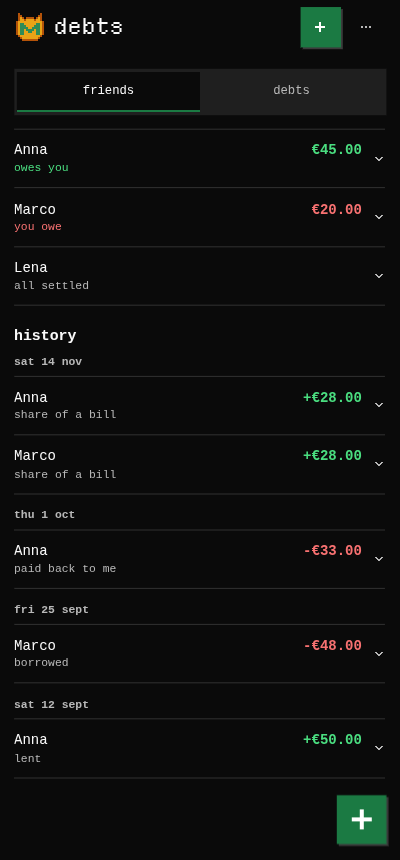
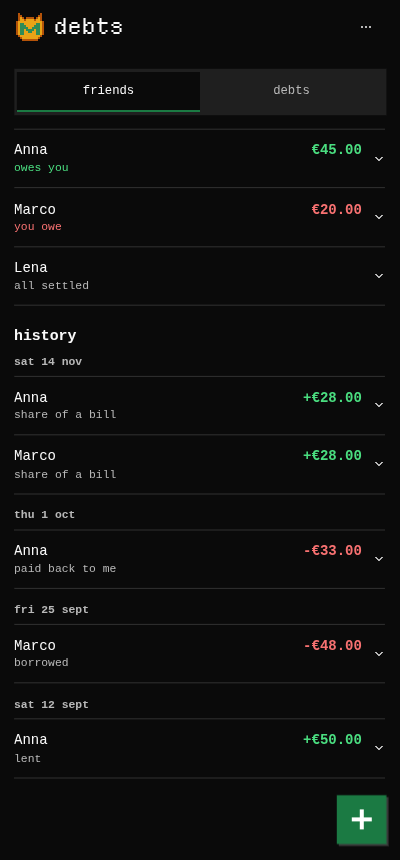
docs: the phone's main action is the first line of the round add button, in the guide, the design note and the phone screenshots

Changed region(s): [[0.75, 0.0, 0.87, 0.0605]]

diff --git a/docs/ui-design.md b/docs/ui-design.md
@@ -32,8 +32,9 @@ character stays: the pixel logo and titles, the mono font, the green accent, lig
    Details are a list of label → value pairs (`Facts`), then the row's buttons. Never a run of words joined by dots.
 5. **A quiet top of the page.** A page starts with `PageHeader`: its title, at most two buttons (the main action filled, one more
    plain), and a "more" button (`MoreMenu`, the "⋯" icon) that holds the rest: second actions (scan, paste a code, add friend,
-   notifications), and switches such as "show removed friends" or "show archived". On the phone only the main action is a button in
-   the header (an icon button); the other one goes into the "⋯" menu, in front of the page's own items. Filters and search stay where
+   notifications), and switches such as "show removed friends" or "show archived". On the phone the second button goes into the "⋯"
+   menu, in front of the page's own items, and the main action is not a header button either: where the round add button is shown, it
+   is the first line of that button's menu (rule in section 4). Filters and search stay where
    the list needs them, in one line: a search field and a filter button that opens the filters. The month or year a page shows is one
    compact control in the header (`PeriodNav`).
 6. **Fewer words on buttons.** A button whose icon says it all is an icon button with an `aria-label` (edit, delete, archive, restore,
@@ -57,8 +58,11 @@ character stays: the pixel logo and titles, the mono font, the green accent, lig
 - **Swipes.** A swipe to the right that starts at the left edge of the screen (the first 24 px) opens the drawer (`AppLayout`,
   `opensMenu` in `lib/swipe.ts`), and a swipe to the left inside it closes it (`PhoneMenu`, `closesMenu`). The swipe from page to page
   (it followed the bottom tabs) is gone; the pages' own swipes (the budget tabs) stay.
-- The round add button (`QuickAdd`) stays, as it is. Transactions and categories, which it adds to, have no main button of their own
-  on the phone; the other pages keep theirs.
+- **One add button.** The round add button (`QuickAdd`) is on every page but settings and sync. Its menu starts with the main action
+  of the page shown (add account, new stash, add recurring transaction, lend, add file…), which `PageHeader` hands over
+  (`hooks/quickAdd.ts`), then add transaction, add category, add friend and scan a bill; a page whose main action is one of those lines
+  does not repeat it (transactions and categories have none of their own). So the page's top line has no "+" on the phone, and a
+  phone has one add button, not two. Settings and sync have no round button, and keep a main action, if they have one, in the header.
 
 ## 5. The phone rows (`TapRow`)
 
@@ -77,7 +81,7 @@ character stays: the pixel logo and titles, the mono font, the green accent, lig
 
 | Piece | What |
 |---|---|
-| `PageHeader` | `title`, `actions` (≤ 2; on a phone only the main one shows, the other goes into the menu), `more` (items for `MoreMenu`), optional `aside` (a total such as "in accounts €13,308.93"), `help` (a `HelpButton` beside the title), `back` (a button to the list a page came from) and `children` (the period control); renders the logo menu button on a phone; sticky on a phone |
+| `PageHeader` | `title`, `actions` (≤ 2; on a phone the main one is the first line of the round add button's menu, or stays a header button where there is none, and the other goes into the "⋯" menu), `more` (items for `MoreMenu`), optional `aside` (a total such as "in accounts €13,308.93"), `help` (a `HelpButton` beside the title), `back` (a button to the list a page came from) and `children` (the period control); renders the logo menu button on a phone; sticky on a phone |
 | `MoreMenu` | the "⋯" icon button and its menu: `role="menu"`, items are buttons or switches (`role="menuitemcheckbox"`), arrow keys move, Escape closes and gives the focus back, a click outside closes |
 | `HelpButton` | "?" icon button with `aria-label` "help", opens a popover (on a phone: a small dialog) with a title and a few lines; a dialog (`Modal`) has it through its `help` prop |
 | `PeriodNav` | "‹ nov 2026 ›": a month or a year with arrows, a popover to choose one, and "current" while another one is shown; `MonthNav` and `YearNav` are it with a kind |
